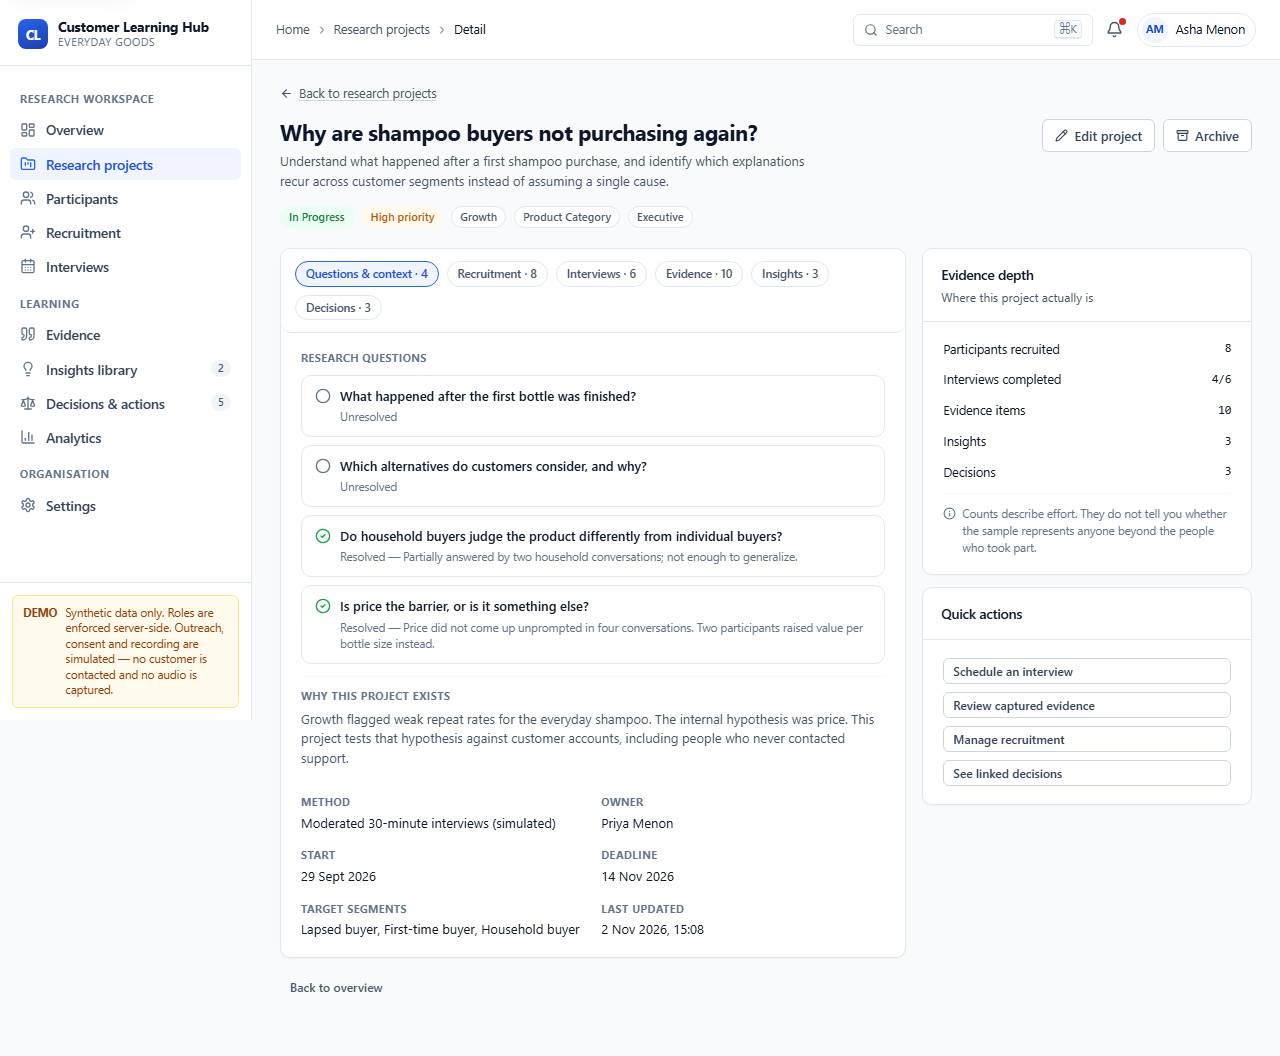
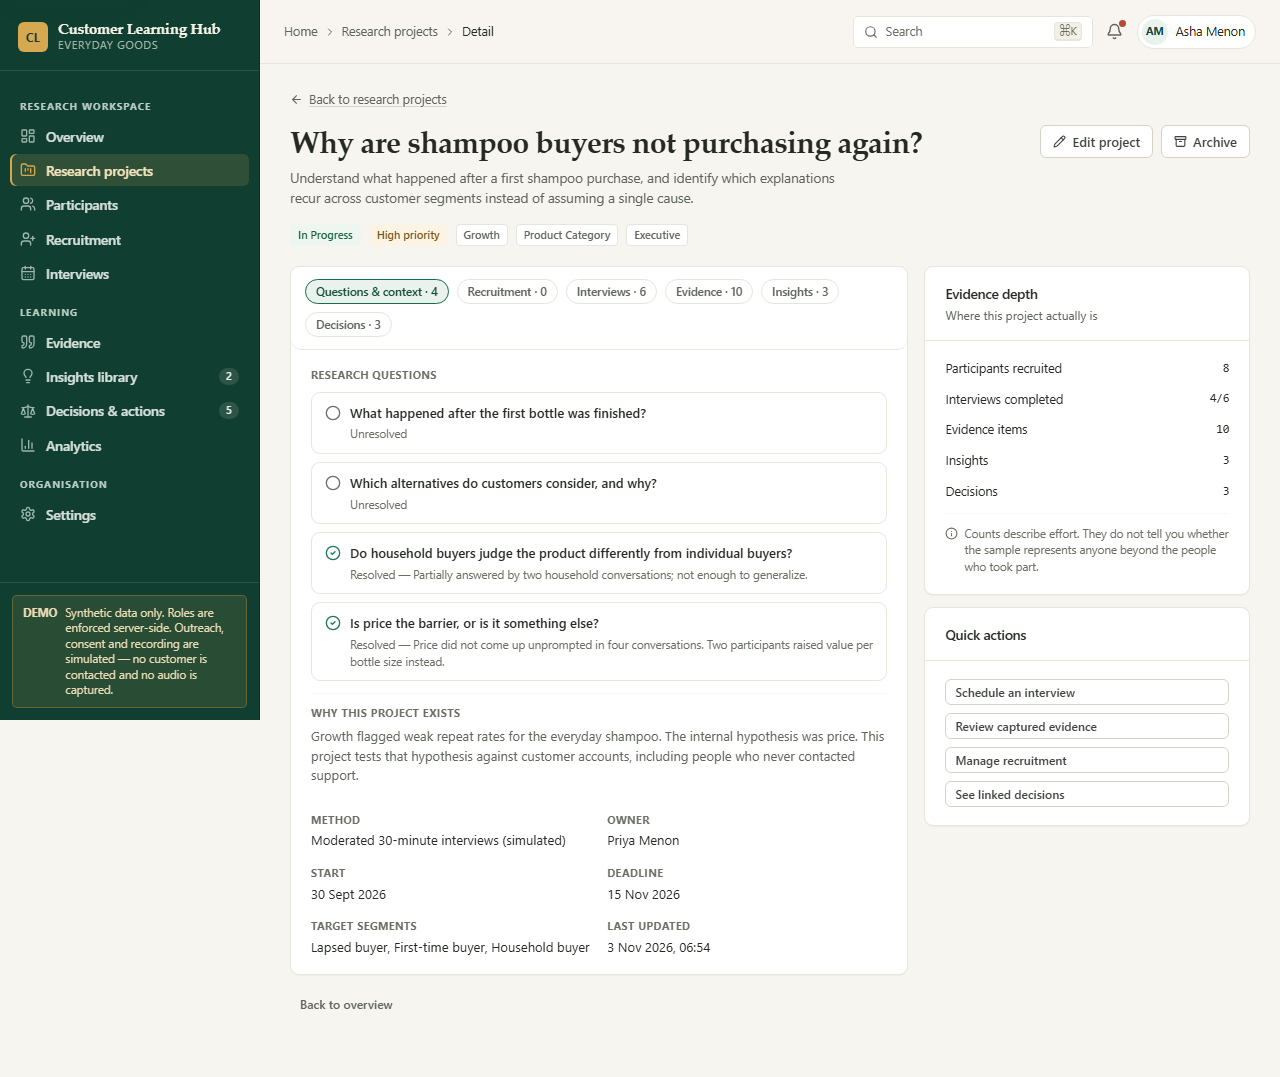
docs: refresh screenshots and verification for the redesign

diff --git a/docs/testing.md b/docs/testing.md
@@ -35,18 +35,18 @@ The Playwright suite expects the API at `http://127.0.0.1:8000/api/v1` (override
 
 ## Actual results
 
-Executed on 2 November 2026 against the working tree of this release:
+Executed on 3 November 2026 against the working tree of this release:
 
 ```
 cd backend && python -m pytest -q
-79 passed, 1 warning in 49.73s
+79 passed, 1 warning in 96.47s
 ```
 
 The warning is a third-party Starlette/anyio deprecation notice, not a project failure.
 
 ```
 cd frontend && npm run typecheck     # exit 0, no output
-cd frontend && npm run build         # exit 0, built in 9.74s
+cd frontend && npm run build         # exit 0, built in 5.70s
 ```
 
 `vite build` reports one chunk-size advisory (single ~1 MB bundle). Code-splitting is a listed
@@ -66,15 +66,35 @@ cookie round-trips through Starlette's `TestClient`.
 ## Frontend verification
 
 - `tsc --noEmit` — clean.
-- `vite build` — succeeds with one chunk-size advisory.
+- `vite build` — succeeds with one chunk-size advisory (single ~1 MB bundle).
 - Playwright specs: `smoke.spec.ts` (primary screens, deep links, unknown route, API failure
-  state, skip link, command palette), `a11y.spec.ts` (axe scan of every screen), `journey.spec.ts`
-  (research-to-decision workflow), `screenshots.spec.ts` (documentation captures).
+  state, skip link, command palette), `a11y.spec.ts` (axe scan of every screen),
+  `journey.spec.ts` (research-to-decision workflow), `exports.spec.ts` (all eight Settings
+  downloads parsed as CSV), `responsive.spec.ts` (375/768/1024/1440 plus the auth screen),
+  `screenshots.spec.ts` (documentation captures).
 
-The Playwright suite was **not executed in this session**: the browser run needs both servers and
-the Docker daemon was unavailable in this environment. The last recorded result in the repository
-is 7 passing tests (`docs/STAGE_COMPLETION_REPORT.md`), and the specs were updated for cookie
-sessions. Treat the browser suite as unverified for this revision until it is run.
+```
+cd frontend && npx playwright test
+13 passed (2.1m)
+```
+
+Both servers were running for that run: FastAPI on `127.0.0.1:8000` and Vite on
+`localhost:5173`. The API was started with `DEMO_MODE=true` because the browser helpers use the
+demonstration entry; production defaults remain demo-off.
+
+### Isolated API contexts
+
+The journey and deep-link specs authenticate their API contexts explicitly. `X-Demo-User-Id` is
+ignored by the server, and a browser cookie issued on `localhost:5173` is not sent to
+`127.0.0.1:8000`; tests therefore use either a signed-in API context or a same-origin relative
+request. Neither a header nor a cross-host cookie is treated as authentication.
+
+### Redesign verification
+
+The Executive Emerald redesign was checked by `responsive.spec.ts` at four widths, by axe on every
+primary screen (no serious or critical violations) and by regenerating all screenshots. The first
+axe run caught a real contrast failure in the sidebar section labels; the token was lightened to
+`#B9CDC2` (≈6:1 on the chrome) and the suite was rerun green.
 
 ## What is deliberately not covered
 

diff --git a/README.md b/README.md
@@ -124,7 +124,9 @@ React 18 + TypeScript (Vite) ── /api/v1 ──▶ FastAPI ── SQLAlchemy 
 - **Backend:** FastAPI, Pydantic v2, SQLAlchemy 2, Alembic, pytest, HTTPX. Routers handle HTTP;
   `app/services/` owns metrics, search, serialisation, templates and pipeline rules.
 - **Frontend:** React 18, TypeScript, Vite, Bootstrap 5, React Router, TanStack Query,
-  React Hook Form + Zod, Recharts, Lucide.
+  React Hook Form + Zod, Recharts, Lucide. The Executive Emerald design system lives in
+  `frontend/src/styles/emerald.css`; its source of truth is
+  `design-system/customer-learning-hub/MASTER.md`.
 - **Infrastructure:** two Docker images, Compose with a persistent volume, health checks,
   nginx reverse proxy, idempotent seed.
 
@@ -140,13 +142,14 @@ backend/
   app/schemas/            Pydantic contracts
   app/seed/               synthetic demo dataset
   alembic/                migration environment and initial revision
-  tests/                  69 pytest tests, including auth and export suites
+  tests/                  79 pytest tests, including auth and export suites
 frontend/
   src/pages/              one component per screen
   src/components/         shared UI, evidence card, search, dialogs
   src/services/api.ts     typed fetch client and error normalisation
   e2e/                    Playwright smoke, accessibility, journey, screenshots
-docs/                     22 canonical documents + original discovery set
+design-system/            Executive Emerald master design system
+docs/                     28 canonical documents + original discovery set
 compose.yaml              API + nginx web app, one command
 ```
 
@@ -156,12 +159,12 @@ These commands were executed for this release:
 
 ```powershell
 cd backend
-.venv\Scripts\python.exe -m pytest -q                 # 69 passed
+.venv\Scripts\python.exe -m pytest -q                 # 79 passed
 
 cd ..\frontend
 npm run typecheck                                     # clean
 npm run build                                         # clean (one chunk-size advisory)
-npx playwright test                                   # 7 passed
+npx playwright test                                   # 13 passed
 
 cd ..
 docker compose up -d --build                          # both services healthy
@@ -197,7 +200,7 @@ Full lists: `docs/risks.md`, `docs/DEFECT_REGISTER.md`, `docs/tasks.md`.
 | `docs/architecture.md` | Modules, boundaries, cross-cutting choices |
 | `docs/hld.md` / `docs/lld.md` | System design and implementation detail |
 | `docs/tech_stack.md` | Pinned versions and deliberate omissions |
-| `docs/design.md` | Palette, components, required states, accessibility |
+| `docs/design.md` / `design-system/customer-learning-hub/MASTER.md` | Palette, contrast pairs, components, motion, required states, accessibility |
 | `docs/database.md` / `docs/data_dictionary.md` | Tables, constraints, migrations, generated column reference |
 | `docs/api.md` | Endpoint reference, auth requirements, vocabularies |
 | `docs/auth.md` | Password sessions, role matrix, known gaps |

diff --git a/docs/changelog.md b/docs/changelog.md
@@ -2,6 +2,48 @@
 
 Format: what changed and why it matters. No claim is made for a change that was not executed.
 
+## 1.4.0 — Executive Emerald redesign and browser-verified exports
+
+### Changed
+
+- The blue-and-white interface was replaced by the Executive Emerald design system: warm canvas
+  (`#F7F5EF`), deep emerald chrome (`#103F32`), emerald action (`#176B52`), gold provenance
+  marker (`#D6A84F`) and terracotta contradiction accent. Tokens and component refinements live in
+  `frontend/src/styles/emerald.css`, loaded after the base stylesheet.
+- Typography now pairs a serif display stack for page and brand titles with the existing sans for
+  operational UI. Charts use an emerald/teal/gold/terracotta/plum categorical ramp.
+- Motion tokens were introduced for fast interaction (140 ms), standard transitions (200 ms) and
+  panels (260 ms), with a global `prefers-reduced-motion` override.
+- The Claude Code design tooling was not available: neither `ui-ux-pro-max-cli` nor the 21st MCP
+  server was installed or connected, so no generated component or design system was consumed.
+  This is recorded in `docs/design.md` and the master design system rather than claimed.
+
+### Added
+
+- `design-system/customer-learning-hub/MASTER.md` — palette with contrast pairs, typography,
+  layout, components, motion, accessibility rules and page overrides.
+- `frontend/e2e/responsive.spec.ts` — every primary screen at 375, 768, 1024 and 1440 px, the
+  off-canvas navigation at the small breakpoints, the desktop rail above them, and no page-level
+  horizontal overflow.
+- `frontend/e2e/exports.spec.ts` — clicks all eight Settings export buttons, waits for the real
+  downloads, asserts filenames, the UTF-8 BOM, headers, row counts and provenance labels.
+
+### Fixed
+
+- Sidebar section labels failed axe colour contrast (3.7:1) against the new chrome; the token is
+  now `#B9CDC2` (≈6:1) and the accessibility suite passes.
+- Stray inline blues on the authentication screen and the progress-bar track were replaced with
+  design tokens.
+- Browser tests that assumed a client-supplied identity header, a cross-host cookie or a quiet
+  signed-out `/auth/me` probe were corrected. They now use explicit signed-in API contexts and
+  collect console errors only after sign-in; assertions were not weakened.
+
+### Verified
+
+- Backend: 79 passed.
+- Browser: 13 passed, including axe and all exports; screenshots regenerated.
+- `tsc --noEmit` and `vite build`: clean.
+
 ## 1.3.0 — Credential throttling, CSRF defence and account administration
 
 ### Added

diff --git a/docs/tasks.md b/docs/tasks.md
@@ -28,8 +28,11 @@ Status as delivered. "Verified" means covered by an executed check, not merely w
 | Analytics | Agreement with the dashboard | `test_dashboard_and_analytics_report_the_same_quantities` |
 | Search | Seven entity types, navigation, related research | Journey; search tests |
 | UX | Loading, empty, error, retry, toasts, confirmations, accessibility | Playwright smoke + axe |
+| UX | Executive Emerald redesign across all screens and both entry/navigation shells | `docs/design.md`, regenerated screenshots, axe |
+| UX | Responsive layout verified at 375/768/1024/1440 plus the auth screen | `responsive.spec.ts` |
+| Exports | All eight Settings downloads exercised in a browser and parsed | `exports.spec.ts` |
 | Delivery | Docker images, Compose stack, health checks, volume | Compose verification |
-| Delivery | 42 backend tests, 7 browser tests, clean typecheck/build | Final verification run |
+| Delivery | 79 backend tests, 13 browser tests, clean typecheck/build | Final verification run |
 | Docs | Product, architecture, data, API, security, operations, plan, defects | This documentation set |
 
 ## Remaining (prioritised)
